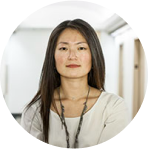
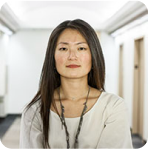
fe: responsive for landing page

diff --git a/components/Pages/LandingPage/Speaker/index.tsx b/components/Pages/LandingPage/Speaker/index.tsx
@@ -16,8 +16,8 @@ const Speaker = () => {
       </p>
       <div
         className={clsx(
-          "grid grid-cols-2 gap-5  w-full mt-8",
-          "xs:mt-10 xs:gap-y-6",
+          "grid grid-cols-2 gap-5 w-full mt-8 gap-y-9",
+          "xs:mt-10 xs:gap-y-11",
           "sm:grid-cols-3",
           "md:grid-cols-4 md:mt-[62px]",
           "lg:grid-cols-5",
@@ -35,19 +35,30 @@ const Speaker = () => {
                     backgroundSize: "contain",
                   }}
                 >
-                  <div className="relative w-full rounded-full px-[22px] xs:px-[29px]">
+                  <div className="relative w-full rounded-xl px-[22px] xs:px-[29px]">
                     <Image src={imgSpeaker} alt="" layout="responsive" />
+                    <Link href="#">
+                      <div
+                        className={clsx(
+                          "absolute bottom-0 right-[22px] bg-[#0A66C2] w-6 h-6 flex items-center justify-center rounded-tl-xl rounded-br-xl cursor-pointer",
+                          "xs:right-[29px] xs:w-7 xs:h-7",
+                        )}
+                      >
+                        <div className="relative w-4 h-4 xs:w-[14.25px] xs:h-[14.25px]">
+                          <Image
+                            src={iconLinkedin}
+                            layout="responsive"
+                            alt=""
+                          />
+                        </div>
+                      </div>
+                    </Link>
                   </div>
                   <span className="mt-3 text-lg font-medium">
                     Esther Howard
                   </span>
-                  <span className="text-16/22">Position</span>
+                  <span className="text-16/22 mt-0.5">Position</span>
                   <span className="text-16/22">Organization</span>
-                </div>
-                <div className="relative w-3 h-3 xs:w-4 xs:h-4 mt-2 cursor-pointer">
-                  <Link href="#">
-                    <Image src={iconLinkedin} alt="" />
-                  </Link>
                 </div>
               </div>
             )

diff --git a/components/Base/BorderAnimation/border.module.scss b/components/Base/BorderAnimation/border.module.scss
@@ -1,13 +1,16 @@
 .box {
   position: relative;
   width: inherit;
-  height: 96px;
+  height: 75px;
   background: rgba($color: #000000, $alpha: 0.75);
   border-radius: 10px;
   display: flex;
   justify-content: center;
   align-items: center;
   overflow: hidden;
+  @media (min-width: theme("screens.3xs")) {
+    height: 96px;
+  }
   &::before {
     content: "";
     position: absolute;

diff --git a/components/Pages/LandingPage/Organizer/index.tsx b/components/Pages/LandingPage/Organizer/index.tsx
@@ -9,8 +9,8 @@ const OrganizorBox = () => {
   return (
     <div>
       <BorderAnimation>
-        <div className="relative">
-          <Image src={logoIcetea} alt="" />
+        <div className="relative w-[120px] 3xs:w-[154px]">
+          <Image src={logoIcetea} layout="responsive" alt="" />
         </div>
       </BorderAnimation>
     </div>
